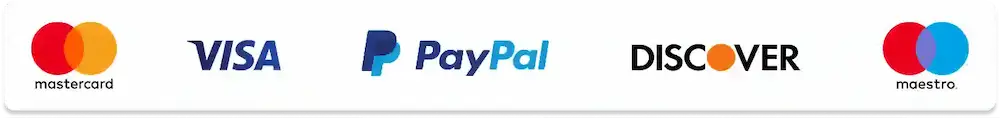
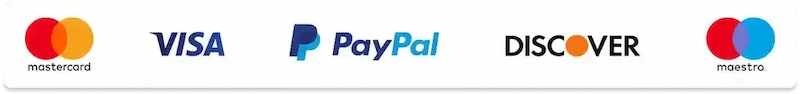
sss

diff --git a/src/Components/Hero/Hero.tsx b/src/Components/Hero/Hero.tsx
@@ -1,25 +1,16 @@
 import PayMethods from "../../assets/Imgs/Hero/Paymentmethods.webp";
-import { useEffect } from "react";
 import HerobackgroundMobile from "../../assets/Imgs/Hero/HeroImgMobile.webp";
 import Logo from "../../assets/Imgs/Hero/HeroLogo.webp";
+import LogoMobile from "../../assets/Imgs/Hero/HeroLogoMobile.webp";
 import Formimg from "../../assets/Imgs/Hero/FormImg.png";
 import { useLanguage } from "../Language/LanguageContext";
 function Hero() {
 const {texts} = useLanguage();
-useEffect(() => {
-    const link = document.createElement("link");
-    link.rel = "preload";
-    link.as = "image";
-    link.href = HerobackgroundMobile; // esta es la ruta exacta con hash
-    link.type = "image/webp";
-    link.setAttribute("importance", "high");
-    document.head.appendChild(link);
-  }, []);
   return (
     <div className="HeroContainer">
-      <img className="HeroBackground" src={HerobackgroundMobile} alt="Background Img" loading="eager" width="800" height="500"/>
+      <img className="HeroBackground" src={HerobackgroundMobile} alt="Background Img" loading="eager" width="900" height="600"/>
       <div className="Content">
-        <img src={Logo} alt="Canelo Tours Logo" width={600} height={600}  />
+        <img src={LogoMobile} alt="Canelo Tours Logo" width={220} height={220}  />
         <h1>
           {texts.HeroSection.HeroTitle}
         </h1>
@@ -33,7 +24,7 @@ useEffect(() => {
         <p>
           {texts.HeroSection.Price}
         </p>
-        <img className="paymethods" src={PayMethods} alt="Payment Methods" width={1000} height={118}/>
+        <img className="paymethods" src={PayMethods} alt="Payment Methods" width={800} height={94}/>
       </div>
     </div>
   )
